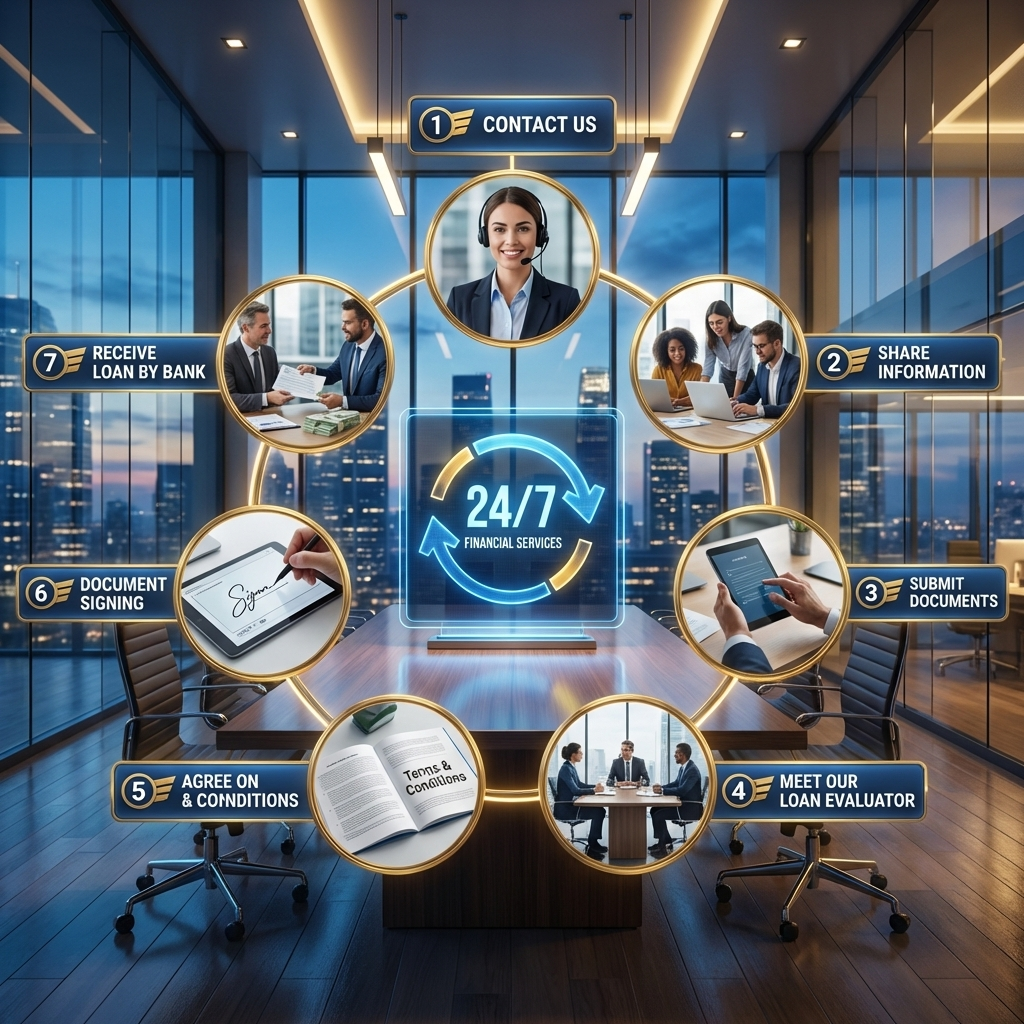
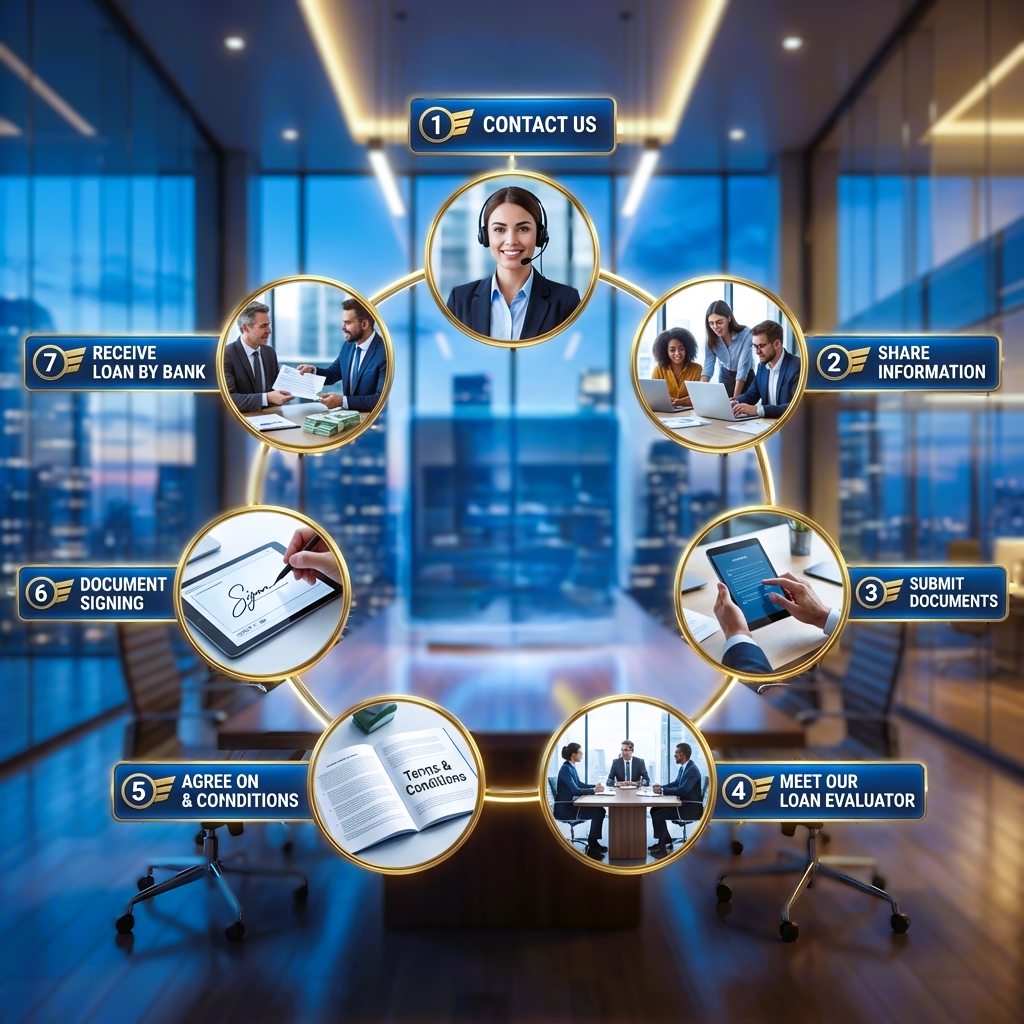
Form updated

diff --git a/styles.css b/styles.css
@@ -585,6 +585,71 @@ header .container {
   color: var(--text-muted);
 }
 
+/* Process Image Patch */
+.process-image-container {
+  position: relative;
+  display: inline-block;
+  max-width: 50%;
+  margin: 0 auto;
+}
+
+.process-img {
+  width: 100%;
+  height: auto;
+  display: block;
+}
+
+.brand-patch {
+  position: absolute;
+  top: 51.6%;
+  left: 50%;
+  transform: translate(-50%, -50%);
+  /* Matching the deep holographic blue of the center screen */
+  background: radial-gradient(circle at center, #1b365d 0%, #0d1b32 100%);
+  padding: 5px;
+  display: flex;
+  flex-direction: column;
+  align-items: center;
+  justify-content: center;
+  border-radius: 2px;
+  /* Glow effect to match the image aesthetics */
+  box-shadow: 0 0 20px rgba(0, 150, 255, 0.2);
+  pointer-events: none;
+  width: 25.5%;
+  height: 15.5%;
+  z-index: 5;
+  /* Thin blue border to match the holographic UI items */
+  border: 1px solid rgba(0, 210, 255, 0.15);
+}
+
+.patch-main {
+  color: #ffffff;
+  font-weight: 700;
+  font-size: clamp(0.7rem, 1.6vw, 1.2rem);
+  text-transform: none;
+  letter-spacing: 0.5px;
+  line-height: 1;
+  font-family: 'Times New Roman', serif;
+  text-shadow: 0 0 10px rgba(255, 255, 255, 0.3);
+}
+
+.patch-sub {
+  color: #00d2ff;
+  /* Cyan blue to match the 24/7 subtitle style */
+  font-size: clamp(0.3rem, 0.7vw, 0.5rem);
+  font-weight: 700;
+  margin-top: 2px;
+  letter-spacing: 1.2px;
+  text-transform: uppercase;
+  opacity: 0.9;
+}
+
+@media (max-width: 768px) {
+  .process-image-container {
+    max-width: 90%;
+  }
+}
+
 /* Quote */
 .quote-section {
   background: #0B1120;

diff --git a/script.js b/script.js
@@ -80,7 +80,7 @@ document.addEventListener('DOMContentLoaded', () => {
   const counters = document.querySelectorAll('.counter');
 
   function animateCounters() {
-    const duration = 5000; // 5 seconds
+    const duration = 3000; // 3 seconds
     let startTimestamp = null;
 
     const step = (timestamp) => {
@@ -92,14 +92,15 @@ document.addEventListener('DOMContentLoaded', () => {
         const current = Math.floor(progress * target);
 
         // Format large numbers with commas if needed (optional but premium)
-        counter.innerText = current;
+        counter.innerText = current.toLocaleString();
       });
 
       if (progress < 1) {
         window.requestAnimationFrame(step);
       } else {
         counters.forEach(counter => {
-          counter.innerText = counter.getAttribute('data-target');
+          const target = parseInt(counter.getAttribute('data-target'));
+          counter.innerText = target.toLocaleString();
         });
       }
     };

diff --git a/contact-us.html b/contact-us.html
@@ -62,7 +62,7 @@
         <!-- Contact Form -->
         <div class="animate" style="background: var(--surface); padding: 40px; border-radius: 12px; height: 500px;">
           <h3 style="color:var(--primary); margin-bottom: 20px;">Get in Touch</h3>
-          <form id="contact-form" action="https://formspree.io/f/xykkgqow" method="POST">
+          <form id="contact-form" action="https://formspree.io/f/xgoovpjn" method="POST">
             <input type="text" name="name" class="form-control" placeholder="Your Name" required>
             <input type="email" name="email" class="form-control" placeholder="Your Email" required>
             <input type="text" name="phone" class="form-control" placeholder="Phone Number">

diff --git a/index.html b/index.html
@@ -131,8 +131,9 @@
         <h2>Our Process</h2>
       </div>
       <div class="text-center animate">
-        <img src="assests/about_refine.png" alt="Our Process"
-          style="max-width: 50%; height: auto; display: inline-block;">
+        <div class="process-image-container">
+          <img src="assests/about_refine.png" alt="Our Process" class="process-img">
+        </div>
       </div>
     </div>
   </section>
